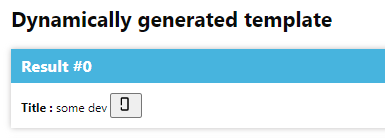
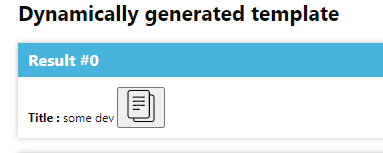
updates

diff --git a/_posts/2023-03-18-Tip-of-the-day-handlebar-helper-copytoclip.md b/_posts/2023-03-18-Tip-of-the-day-handlebar-helper-copytoclip.md
@@ -46,30 +46,38 @@ To implement the copyToClipBoard helper in your SharePoint web part, you can use
 
 ```javascript
   ReactContentQuery.ExternalScripts.handlebarsCopyToClipBoard = {
-    onPreRender: function(wpContext, handlebarsContext) {
+  onPreRender: function (wpContext, handlebarsContext) {
+    
+    handlebarsContext.registerHelper('copyToClipBoard', function(text) {
       function copyTextToClipboard(text) {
+        console.log("in function");
         navigator.clipboard.writeText(text).then(function() {
           console.log('Text copied to clipboard');
         }, function(err) {
           console.error('Error copying text: ', err);
         });
       }
-
       window.yournamespace = window.yournamespace || {};
       window.yournamespace.copyTextToClipboard = copyTextToClipboard;
+      window.copyTextToClipboard = copyTextToClipboard;
+      console.log("mesage");
 
-      handlebarsContext.registerHelper('copyToClipBoard', function(text) {
-        var svgCode = '<svg xmlns="http://www.w3.org/2000/svg" viewBox="0 0 24 24" width="16" height="16"><path fill="currentColor" d="M14 2H6a2 2 0 00-2 2v10h2V4h8v16H6v-3H4v3a2 2 0 002 2h8a2 2 0 002-2V4a2 2 0 00-2-2z"/><path fill="none" d="M0 0h24v24H0z"/></svg>';
-        return new handlebarsContext.SafeString(`<button class="copy-to-clipboard-button" onclick="yournamespace.copyTextToClipboard('${text}')">${svgCode}</button>`);
+       var copyImage = '<svg fill="#000000" height="32px" width="32px" version="1.1" id="Layer_1" xmlns="http://www.w3.org/2000/svg" xmlns:xlink="http://www.w3.org/1999/xlink" viewBox="0 0 64 64" xml:space="preserve"><g id="SVGRepo_bgCarrier" stroke-width="0"></g><g id="SVGRepo_tracerCarrier" stroke-linecap="round" stroke-linejoin="round"></g><g id="SVGRepo_iconCarrier"> <g id="Text-files"> <path d="M53.9791489,9.1429005H50.010849c-0.0826988,0-0.1562004,0.0283995-0.2331009,0.0469999V5.0228 C49.7777481,2.253,47.4731483,0,44.6398468,0h-34.422596C7.3839517,0,5.0793519,2.253,5.0793519,5.0228v46.8432999 c0,2.7697983,2.3045998,5.0228004,5.1378999,5.0228004h6.0367002v2.2678986C16.253952,61.8274002,18.4702511,64,21.1954517,64 h32.783699c2.7252007,0,4.9414978-2.1725998,4.9414978-4.8432007V13.9861002 C58.9206467,11.3155003,56.7043495,9.1429005,53.9791489,9.1429005z M7.1110516,51.8661003V5.0228 c0-1.6487999,1.3938999-2.9909999,3.1062002-2.9909999h34.422596c1.7123032,0,3.1062012,1.3422,3.1062012,2.9909999v46.8432999 c0,1.6487999-1.393898,2.9911003-3.1062012,2.9911003h-34.422596C8.5049515,54.8572006,7.1110516,53.5149002,7.1110516,51.8661003z M56.8888474,59.1567993c0,1.550602-1.3055,2.8115005-2.9096985,2.8115005h-32.783699 c-1.6042004,0-2.9097996-1.2608986-2.9097996-2.8115005v-2.2678986h26.3541946 c2.8333015,0,5.1379013-2.2530022,5.1379013-5.0228004V11.1275997c0.0769005,0.0186005,0.1504021,0.0469999,0.2331009,0.0469999 h3.9682999c1.6041985,0,2.9096985,1.2609005,2.9096985,2.8115005V59.1567993z"></path> <path d="M38.6031494,13.2063999H16.253952c-0.5615005,0-1.0159006,0.4542999-1.0159006,1.0158005 c0,0.5615997,0.4544001,1.0158997,1.0159006,1.0158997h22.3491974c0.5615005,0,1.0158997-0.4542999,1.0158997-1.0158997 C39.6190491,13.6606998,39.16465,13.2063999,38.6031494,13.2063999z"></path> <path d="M38.6031494,21.3334007H16.253952c-0.5615005,0-1.0159006,0.4542999-1.0159006,1.0157986 c0,0.5615005,0.4544001,1.0159016,1.0159006,1.0159016h22.3491974c0.5615005,0,1.0158997-0.454401,1.0158997-1.0159016 C39.6190491,21.7877007,39.16465,21.3334007,38.6031494,21.3334007z"></path> <path d="M38.6031494,29.4603004H16.253952c-0.5615005,0-1.0159006,0.4543991-1.0159006,1.0158997 s0.4544001,1.0158997,1.0159006,1.0158997h22.3491974c0.5615005,0,1.0158997-0.4543991,1.0158997-1.0158997 S39.16465,29.4603004,38.6031494,29.4603004z"></path> <path d="M28.4444485,37.5872993H16.253952c-0.5615005,0-1.0159006,0.4543991-1.0159006,1.0158997 s0.4544001,1.0158997,1.0159006,1.0158997h12.1904964c0.5615025,0,1.0158005-0.4543991,1.0158005-1.0158997 S29.0059509,37.5872993,28.4444485,37.5872993z"></path> </g> </g></svg>';
+       
+        return new handlebarsContext.SafeString(`<button class="copy-to-clipboard-button" onclick="yournamespace.copyTextToClipboard('${text}')">${copyImage}</button>`);
       });
-    }
-  };
+
+  },
+};
 ```
 
 > Note: rename "yournamespace" to your own namespace
   {: .prompt-info }
 
 > Note: Put javascript file in sharepoint library, i named my js: my.js
+  {: .prompt-info }
+
+> Note: Also svg in the example not realy nice :) you can use your own svg or image file
   {: .prompt-info }
 
 In Content Query web part - at last step - add this js file to External Scripts
